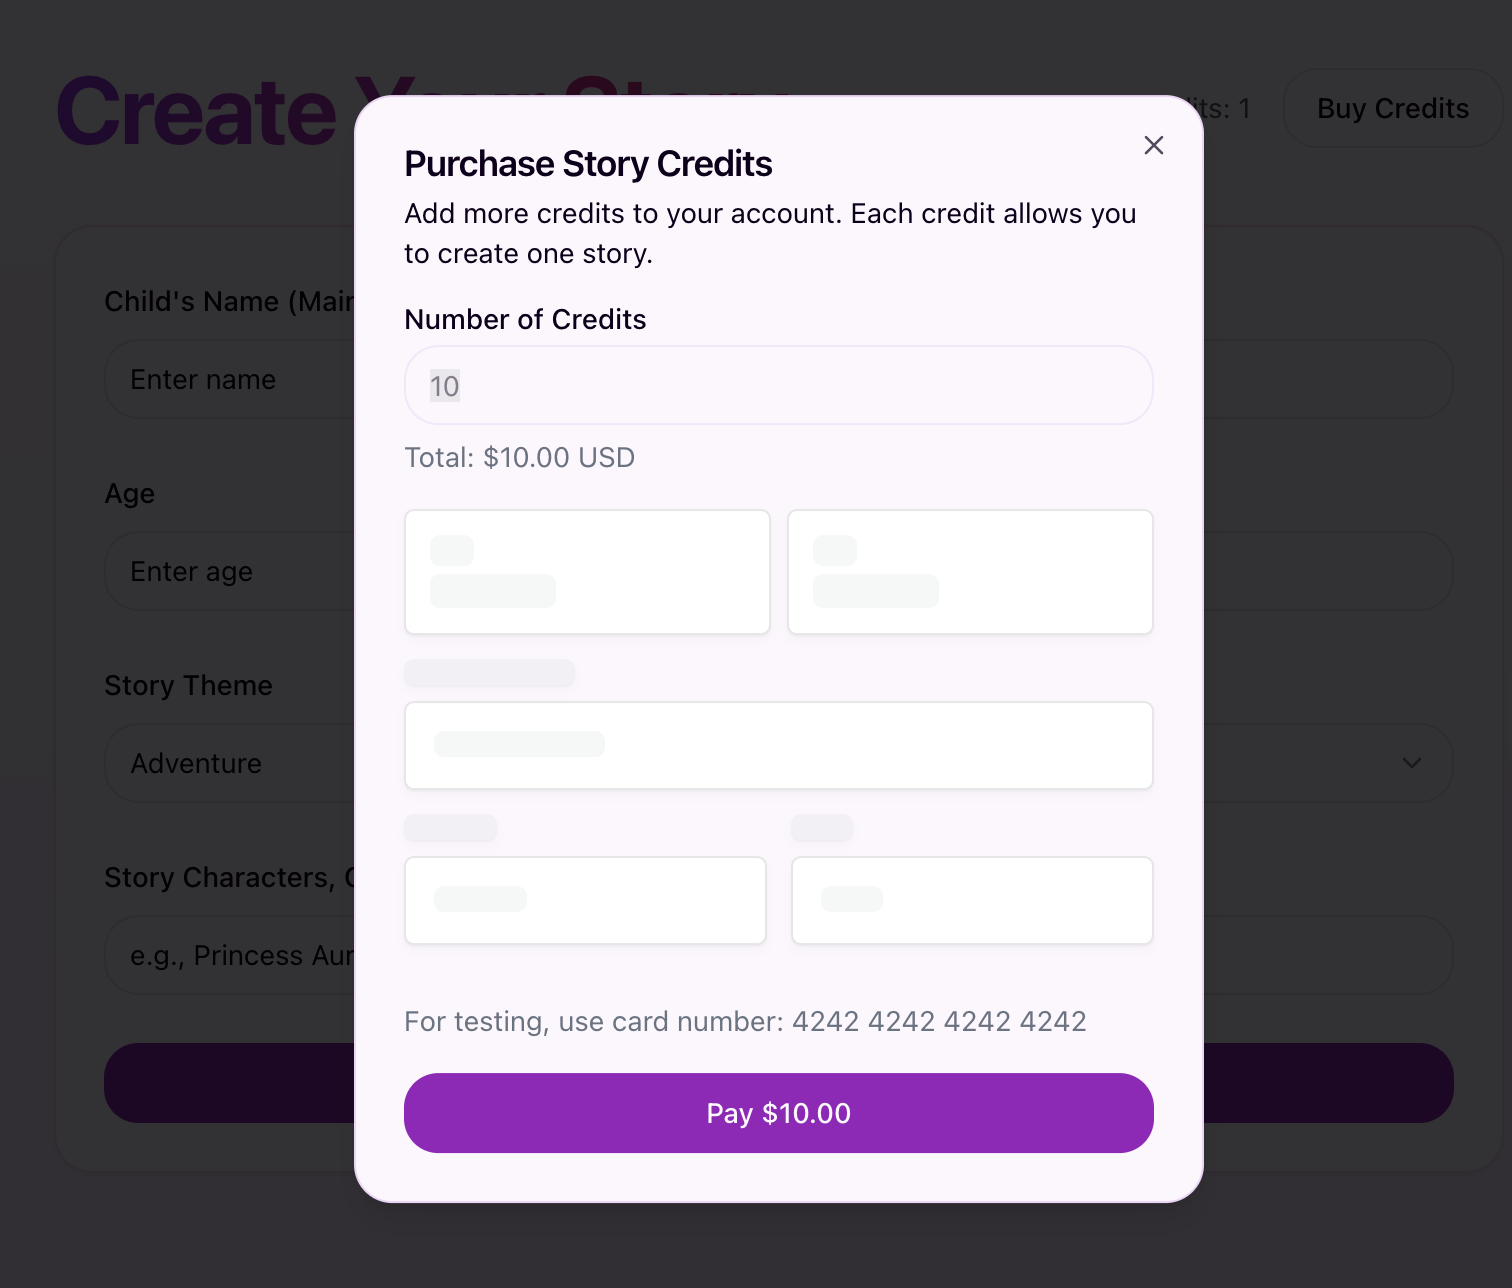
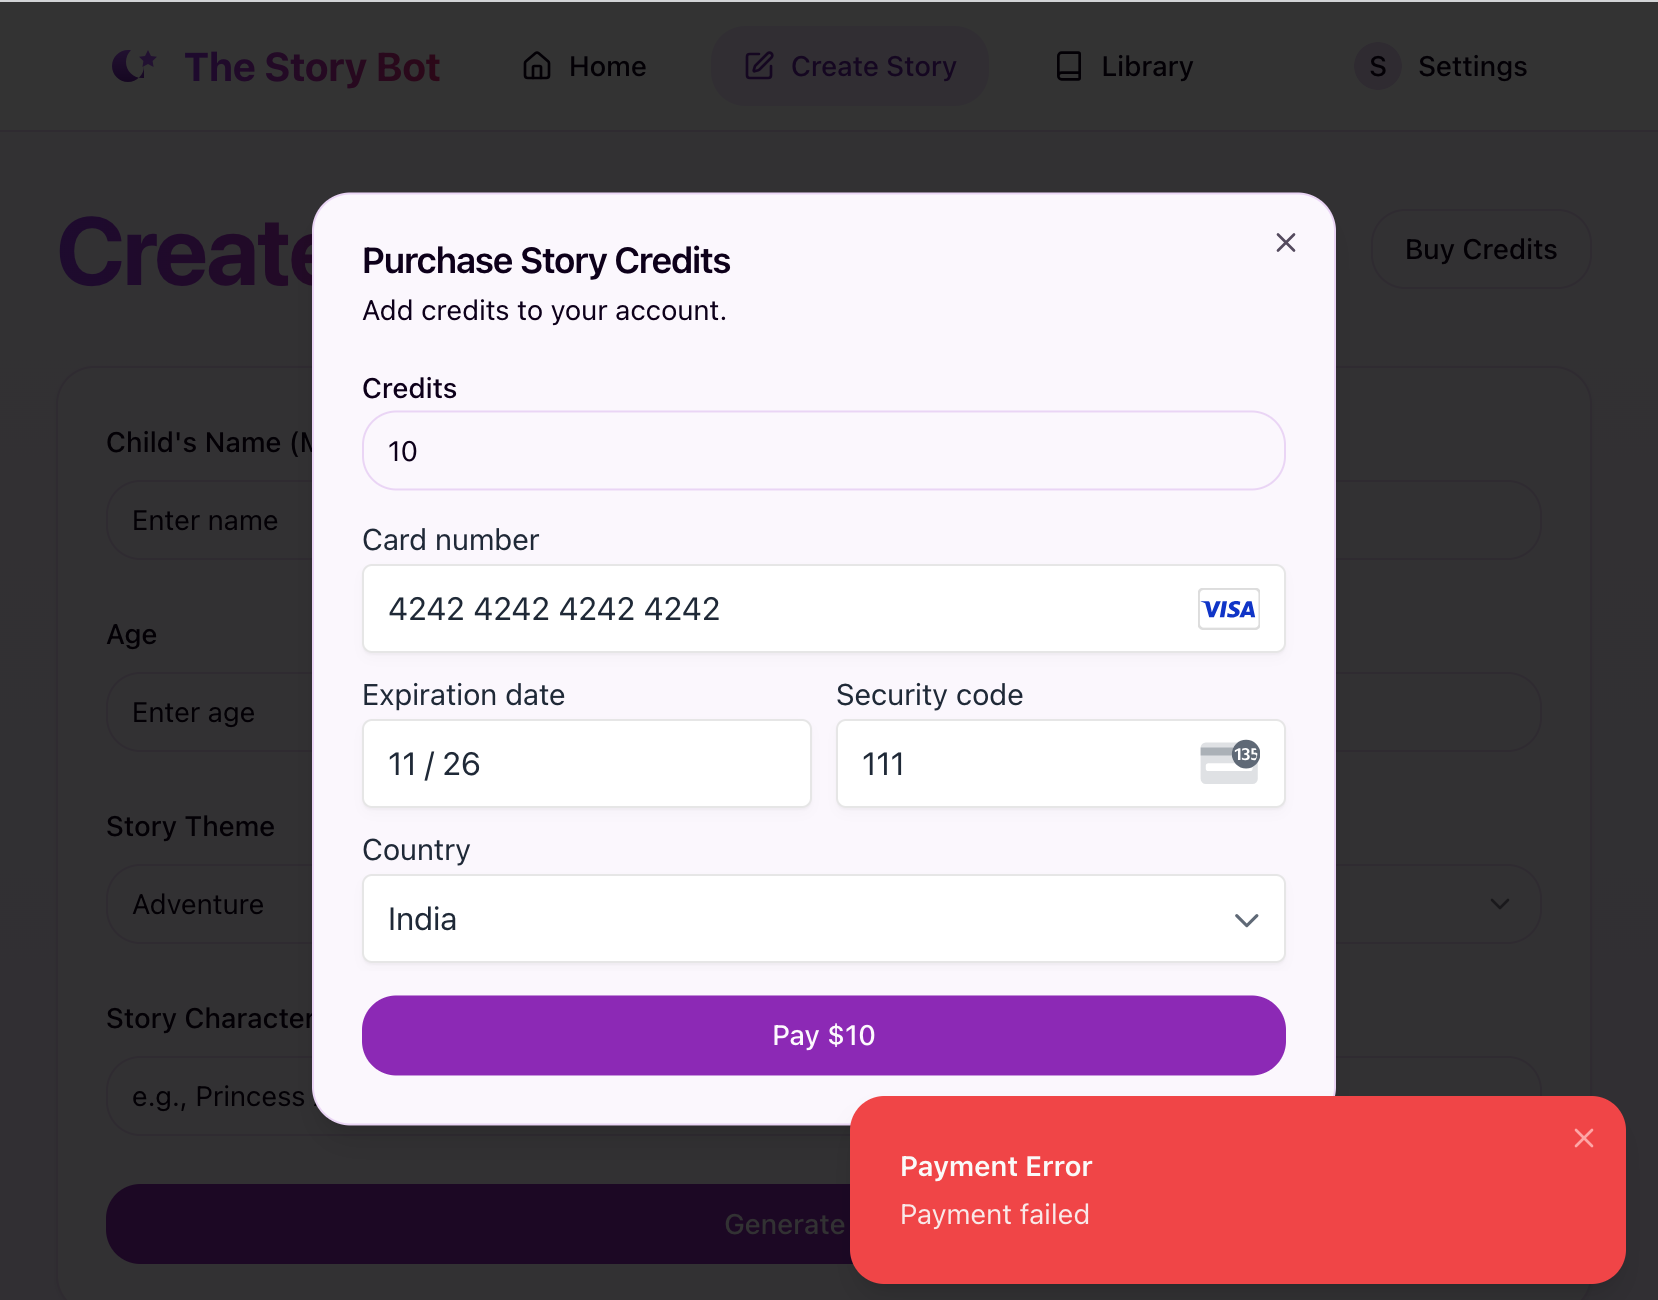
Agent query: Could you please try making a test payment with card number 4242 4242 4242 4242, any future expiration date (e.g. 12/25), any CVC (e.g. 123), and any postal code? Let me know if you see the success message.

diff --git a/client/src/components/CreditPurchaseDialog.tsx b/client/src/components/CreditPurchaseDialog.tsx
@@ -38,20 +38,57 @@ const PaymentForm = ({
     }
 
     try {
-      const { error } = await stripe.confirmPayment({
+      const { error, paymentIntent } = await stripe.confirmPayment({
         elements,
-        confirmParams: { return_url: `${window.location.origin}/credits/confirm` },
+        confirmParams: { 
+          return_url: `${window.location.origin}/credits/confirm`,
+          payment_method_data: {
+            billing_details: {
+              email: window.localStorage.getItem('userEmail') || undefined,
+            },
+          },
+        },
+        redirect: 'if_required',
       });
 
       if (error) {
-        throw error;
+        if (error.type === 'card_error' || error.type === 'validation_error') {
+          toast({ 
+            title: "Payment Error", 
+            description: error.message || "Your card was declined", 
+            variant: "destructive" 
+          });
+        } else {
+          toast({ 
+            title: "Payment Error", 
+            description: "An unexpected error occurred", 
+            variant: "destructive" 
+          });
+        }
+        return;
       }
 
-      toast({ title: "Payment successful", description: `Added ${amount} credits to your account` });
-      onSuccess?.();
+      if (paymentIntent?.status === 'succeeded') {
+        toast({ 
+          title: "Payment Successful", 
+          description: `Added ${amount} credits to your account`, 
+        });
+        onSuccess?.();
+      } else if (paymentIntent?.status === 'requires_action') {
+        toast({ 
+          title: "Authentication Required", 
+          description: "Please complete the authentication process", 
+        });
+        // The payment requires additional authentication steps
+        // The stripe.confirmPayment will handle the redirect automatically
+      }
     } catch (error) {
-      const errorMessage = error instanceof Error ? error.message : "Payment failed";
-      toast({ title: "Payment Error", description: errorMessage, variant: "destructive" });
+      console.error('Payment confirmation error:', error);
+      toast({ 
+        title: "Payment Error", 
+        description: "An unexpected error occurred while processing your payment", 
+        variant: "destructive" 
+      });
     }
   };
 
